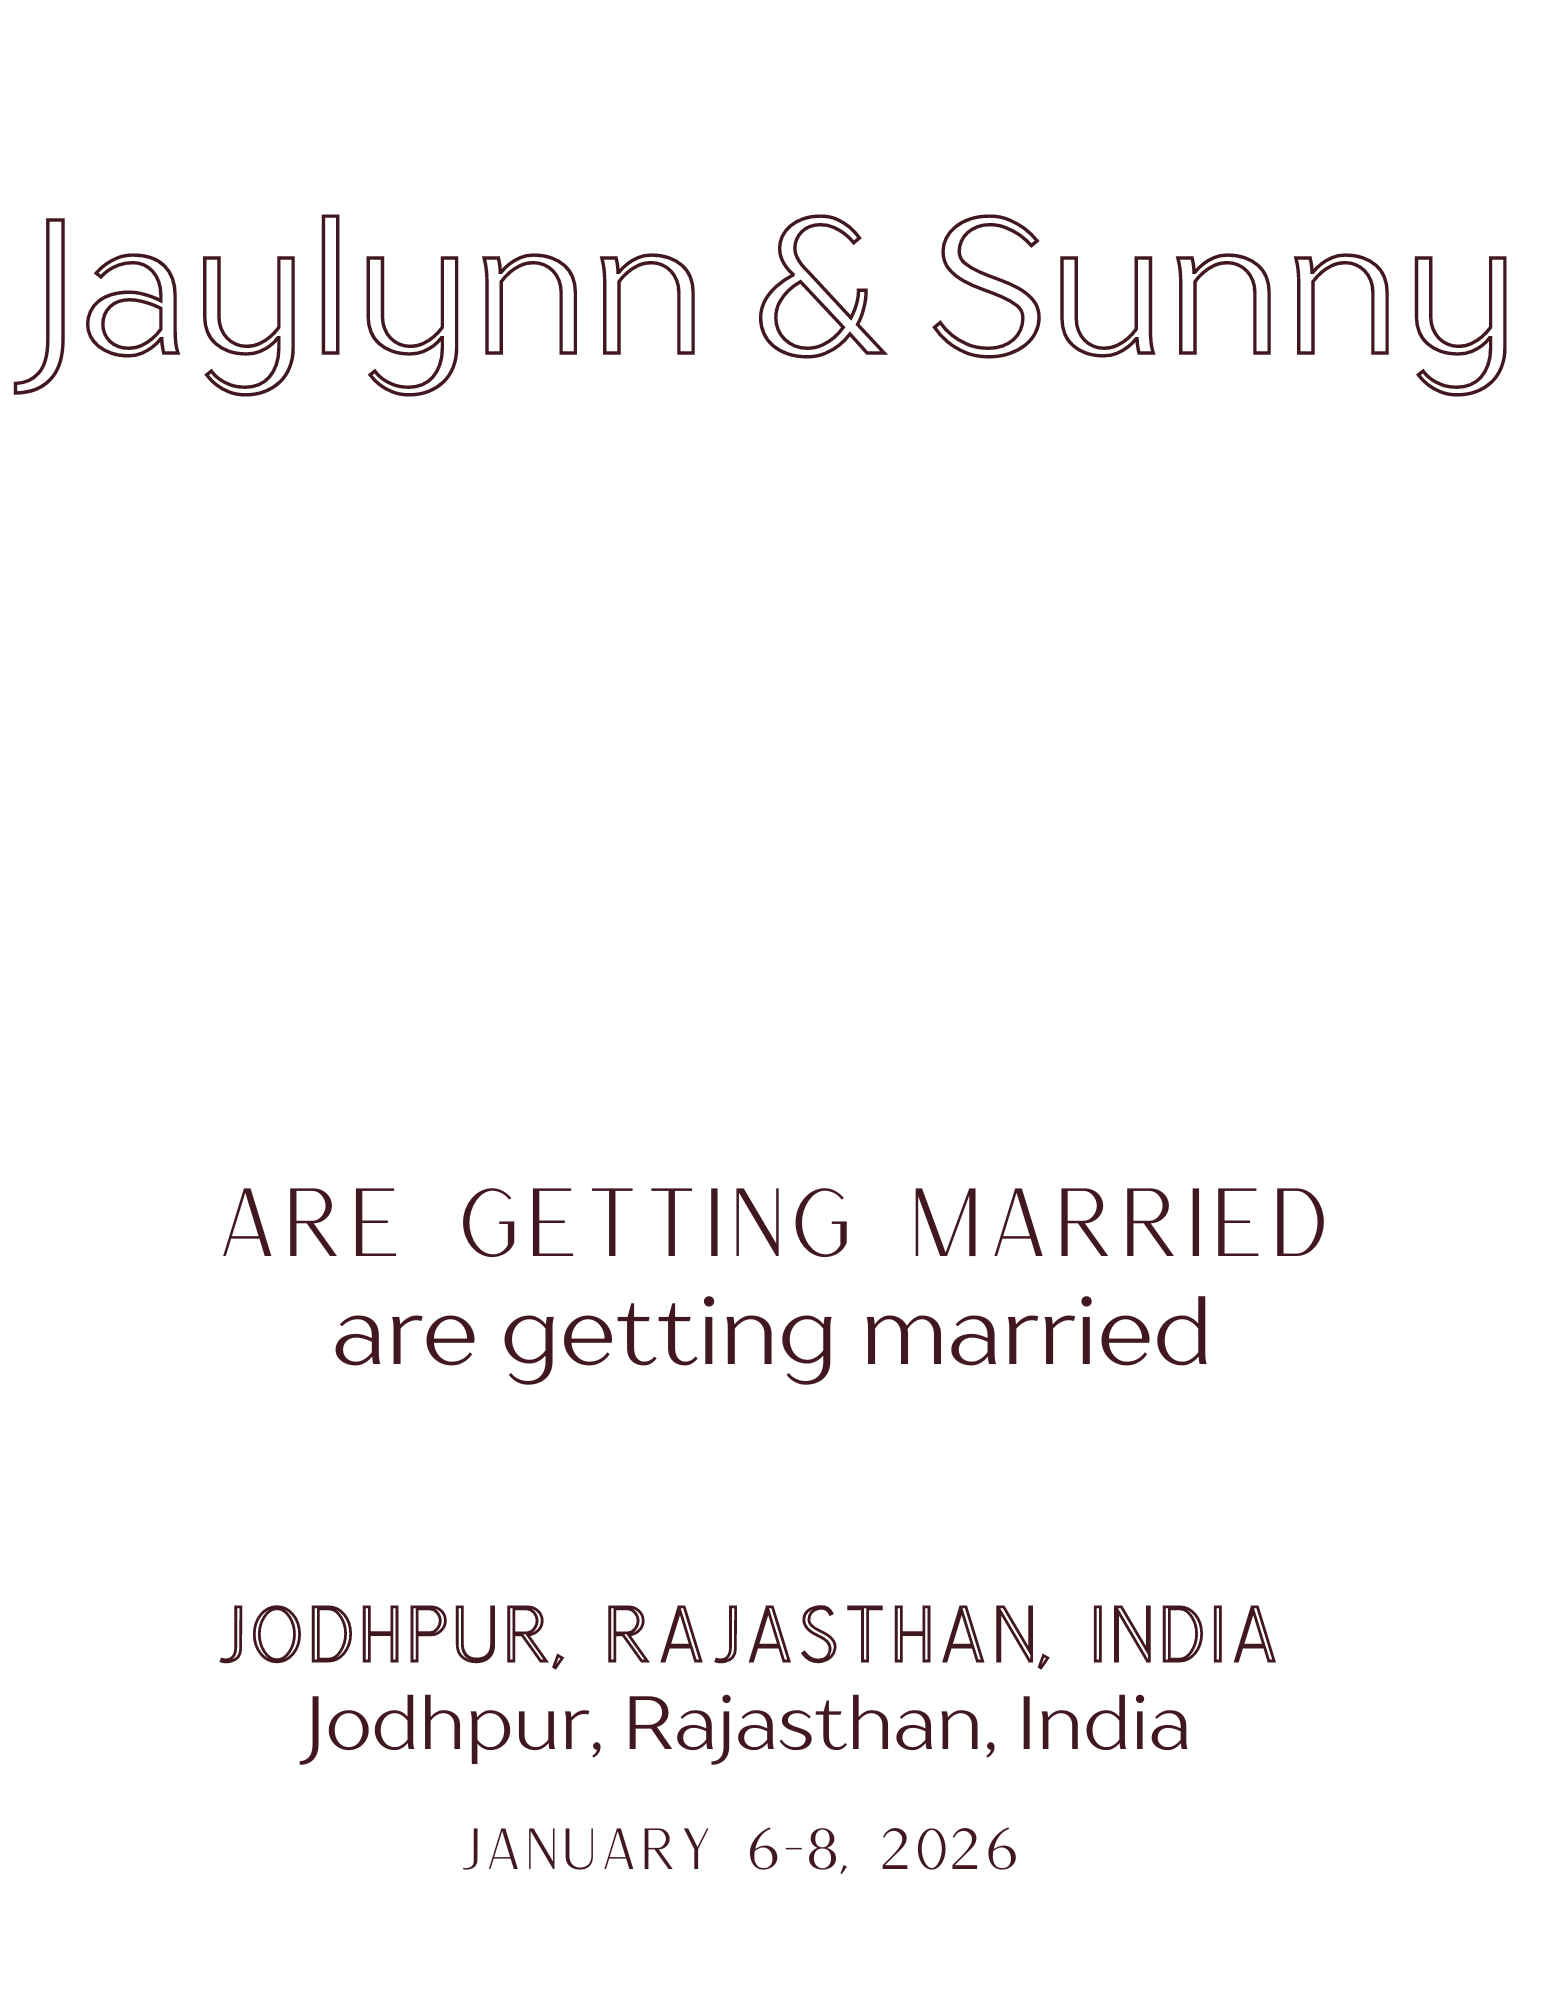
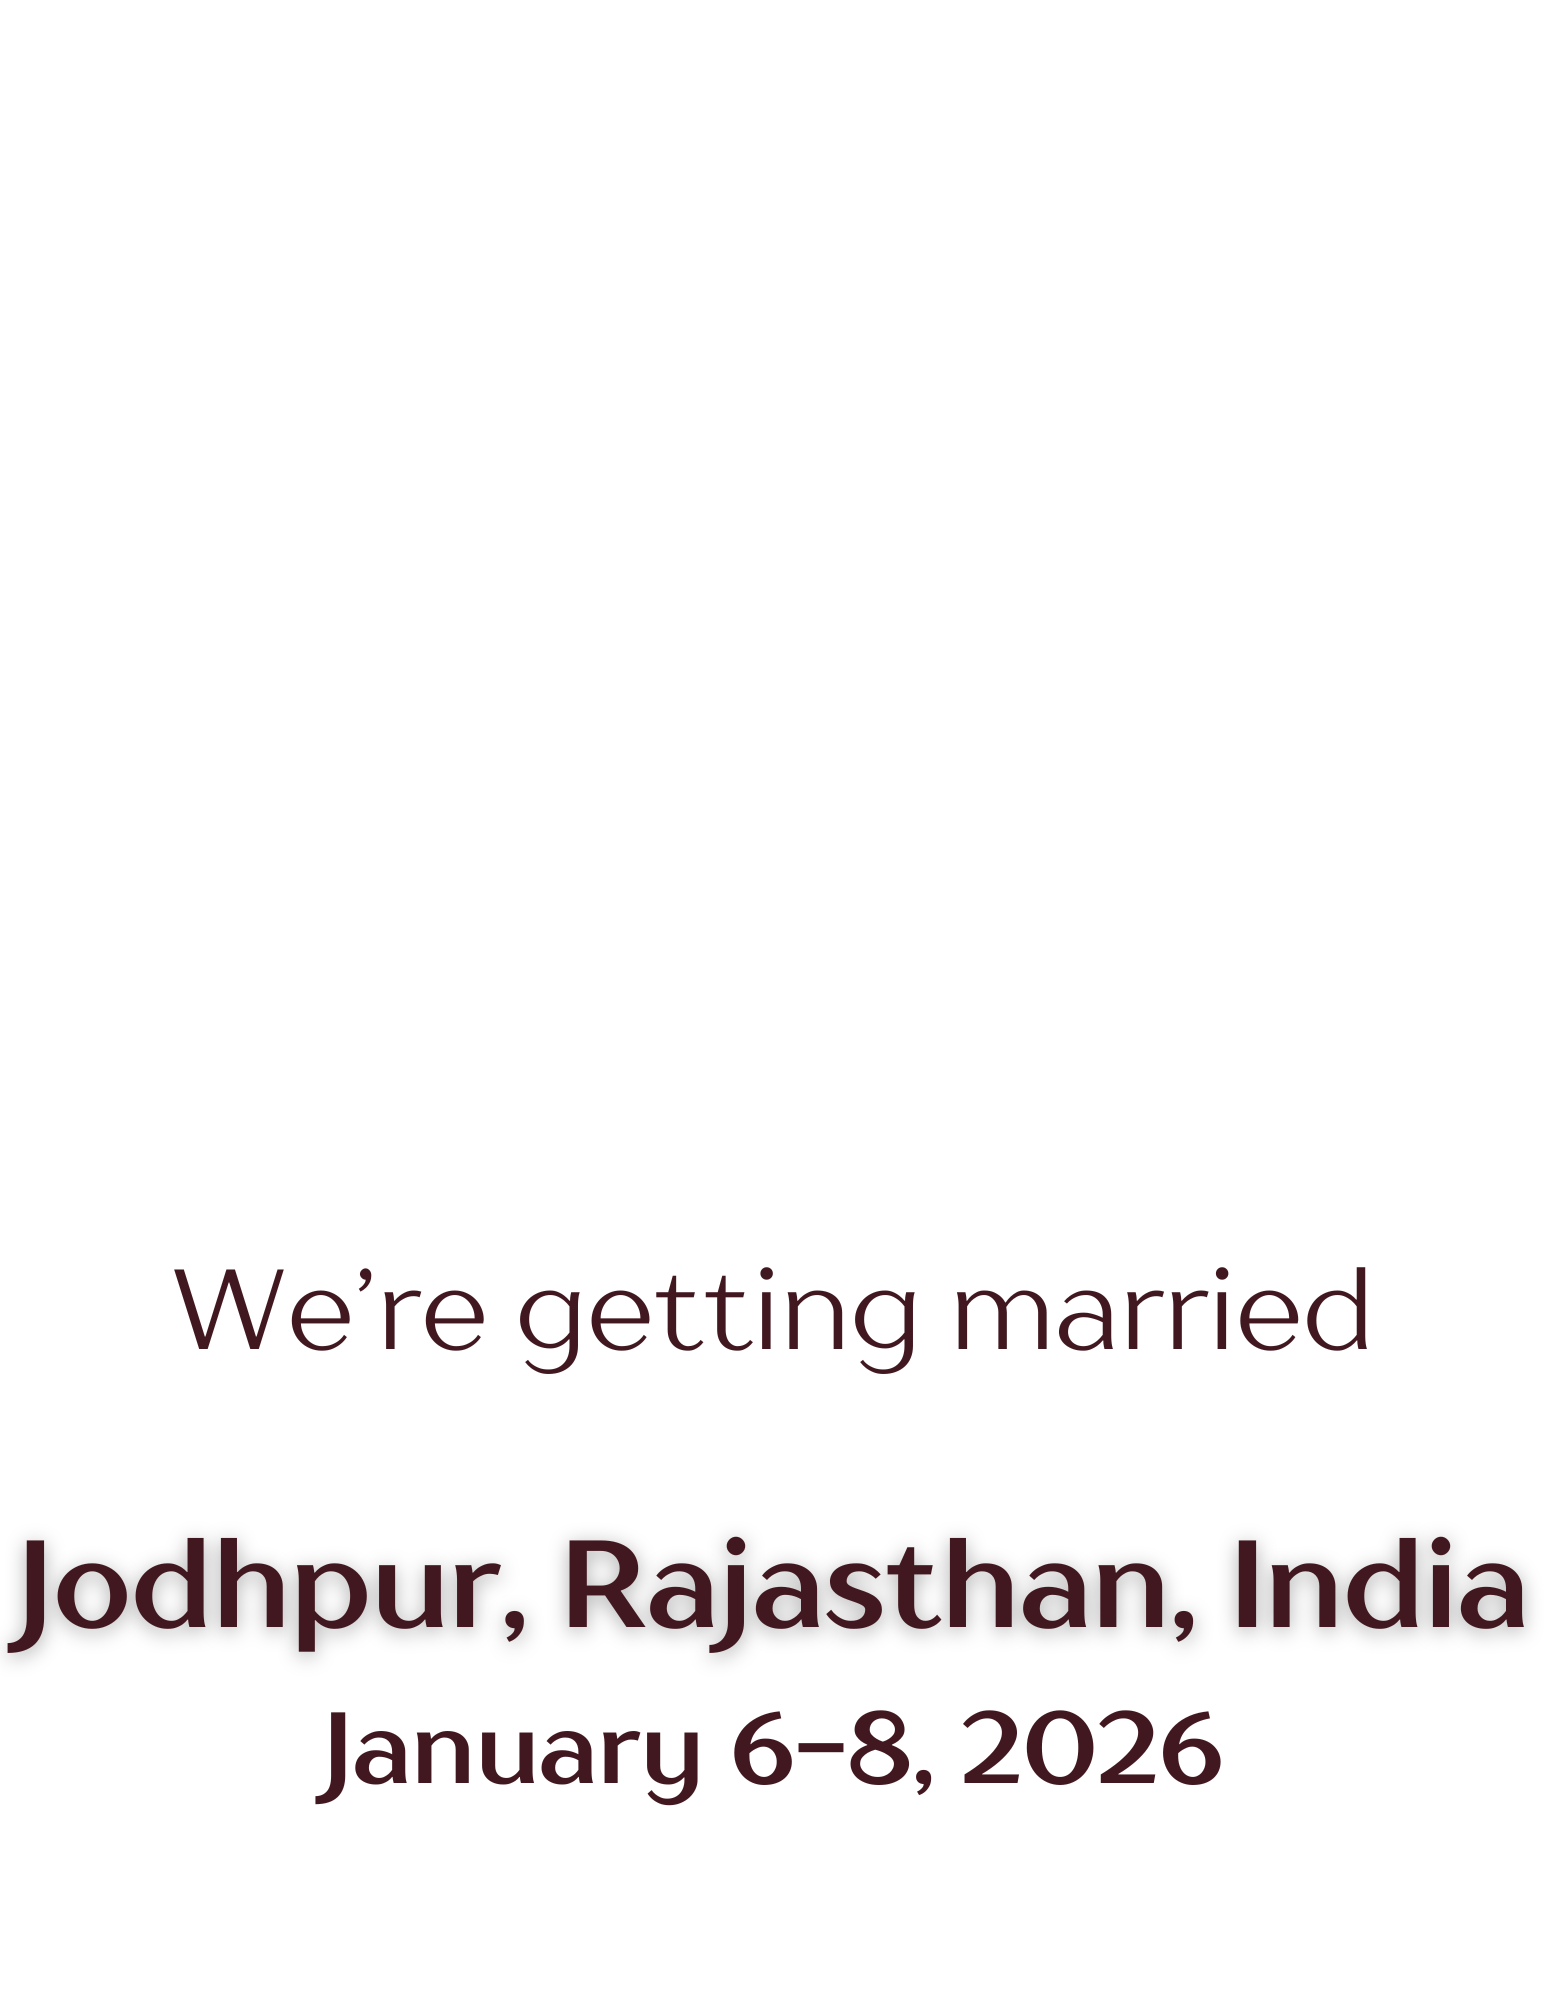
Button Styling on Home Page
Started styling the RSVP button in the hero section.

diff --git a/styles.css b/styles.css
@@ -173,6 +173,7 @@
         width: 80%;
         height: 80px;
         margin: 0;
+        text-decoration: none;
     }
 
     #mobile-menu {
@@ -236,13 +237,23 @@
     justify-content: center;
     opacity: 1;
 }
+
+.hero button {
+    text-decoration: none;
+    color: #421820;
+    padding: 14px 24px;
+    border: none;
+    outline: none;
+    border-radius: 4px;
+    background: #F8F4F9;
+    font-size: 2.5rem;
+}
 /* .hero__heading {
     font-size: 100px;
     margin-bottom: 24px;
     color: #F8F4F9;
     -webkit-text-stroke: 2px #421820 ;
 }
-
 
 .hero__details1 {
     font-size: 60px;
@@ -311,7 +322,6 @@
     
 } 
 
-
 .main img {
     max-width: 100%;
     height: auto;
@@ -319,7 +329,6 @@
     justify-content: center;
     opacity: 1;
 }
-
 
 
 /*  Mobile Responsiveness */
@@ -342,7 +351,9 @@
 
 
 @media screen and (max-width: 480px) {
-
+    .main {
+        display: flex;
+    }
 
     /* Adjust size of icons or pictures here at 1:13:00 minute in the video*/
 

diff --git a/index.html b/index.html
@@ -50,9 +50,8 @@
             <!-- <h1 class="hero__heading">We're getting married!</h1>
             <p class="hero__details1">Jodhpur, Rajasthan, India</p>
             <p class="hero__details2">January 6, 2026</p> -->
-            <img src="images/Home Page Header.png" alt="Home Page Header">
             <img src="images/Home Page.png" alt="Home Page Subtext">
-            <button class="main__btn"><a href="#">RSVP</a></button>
+            <button class="hero__btn"><a href="#">RSVP To Join Us!</a></button>
         </div>
     </div>
 
